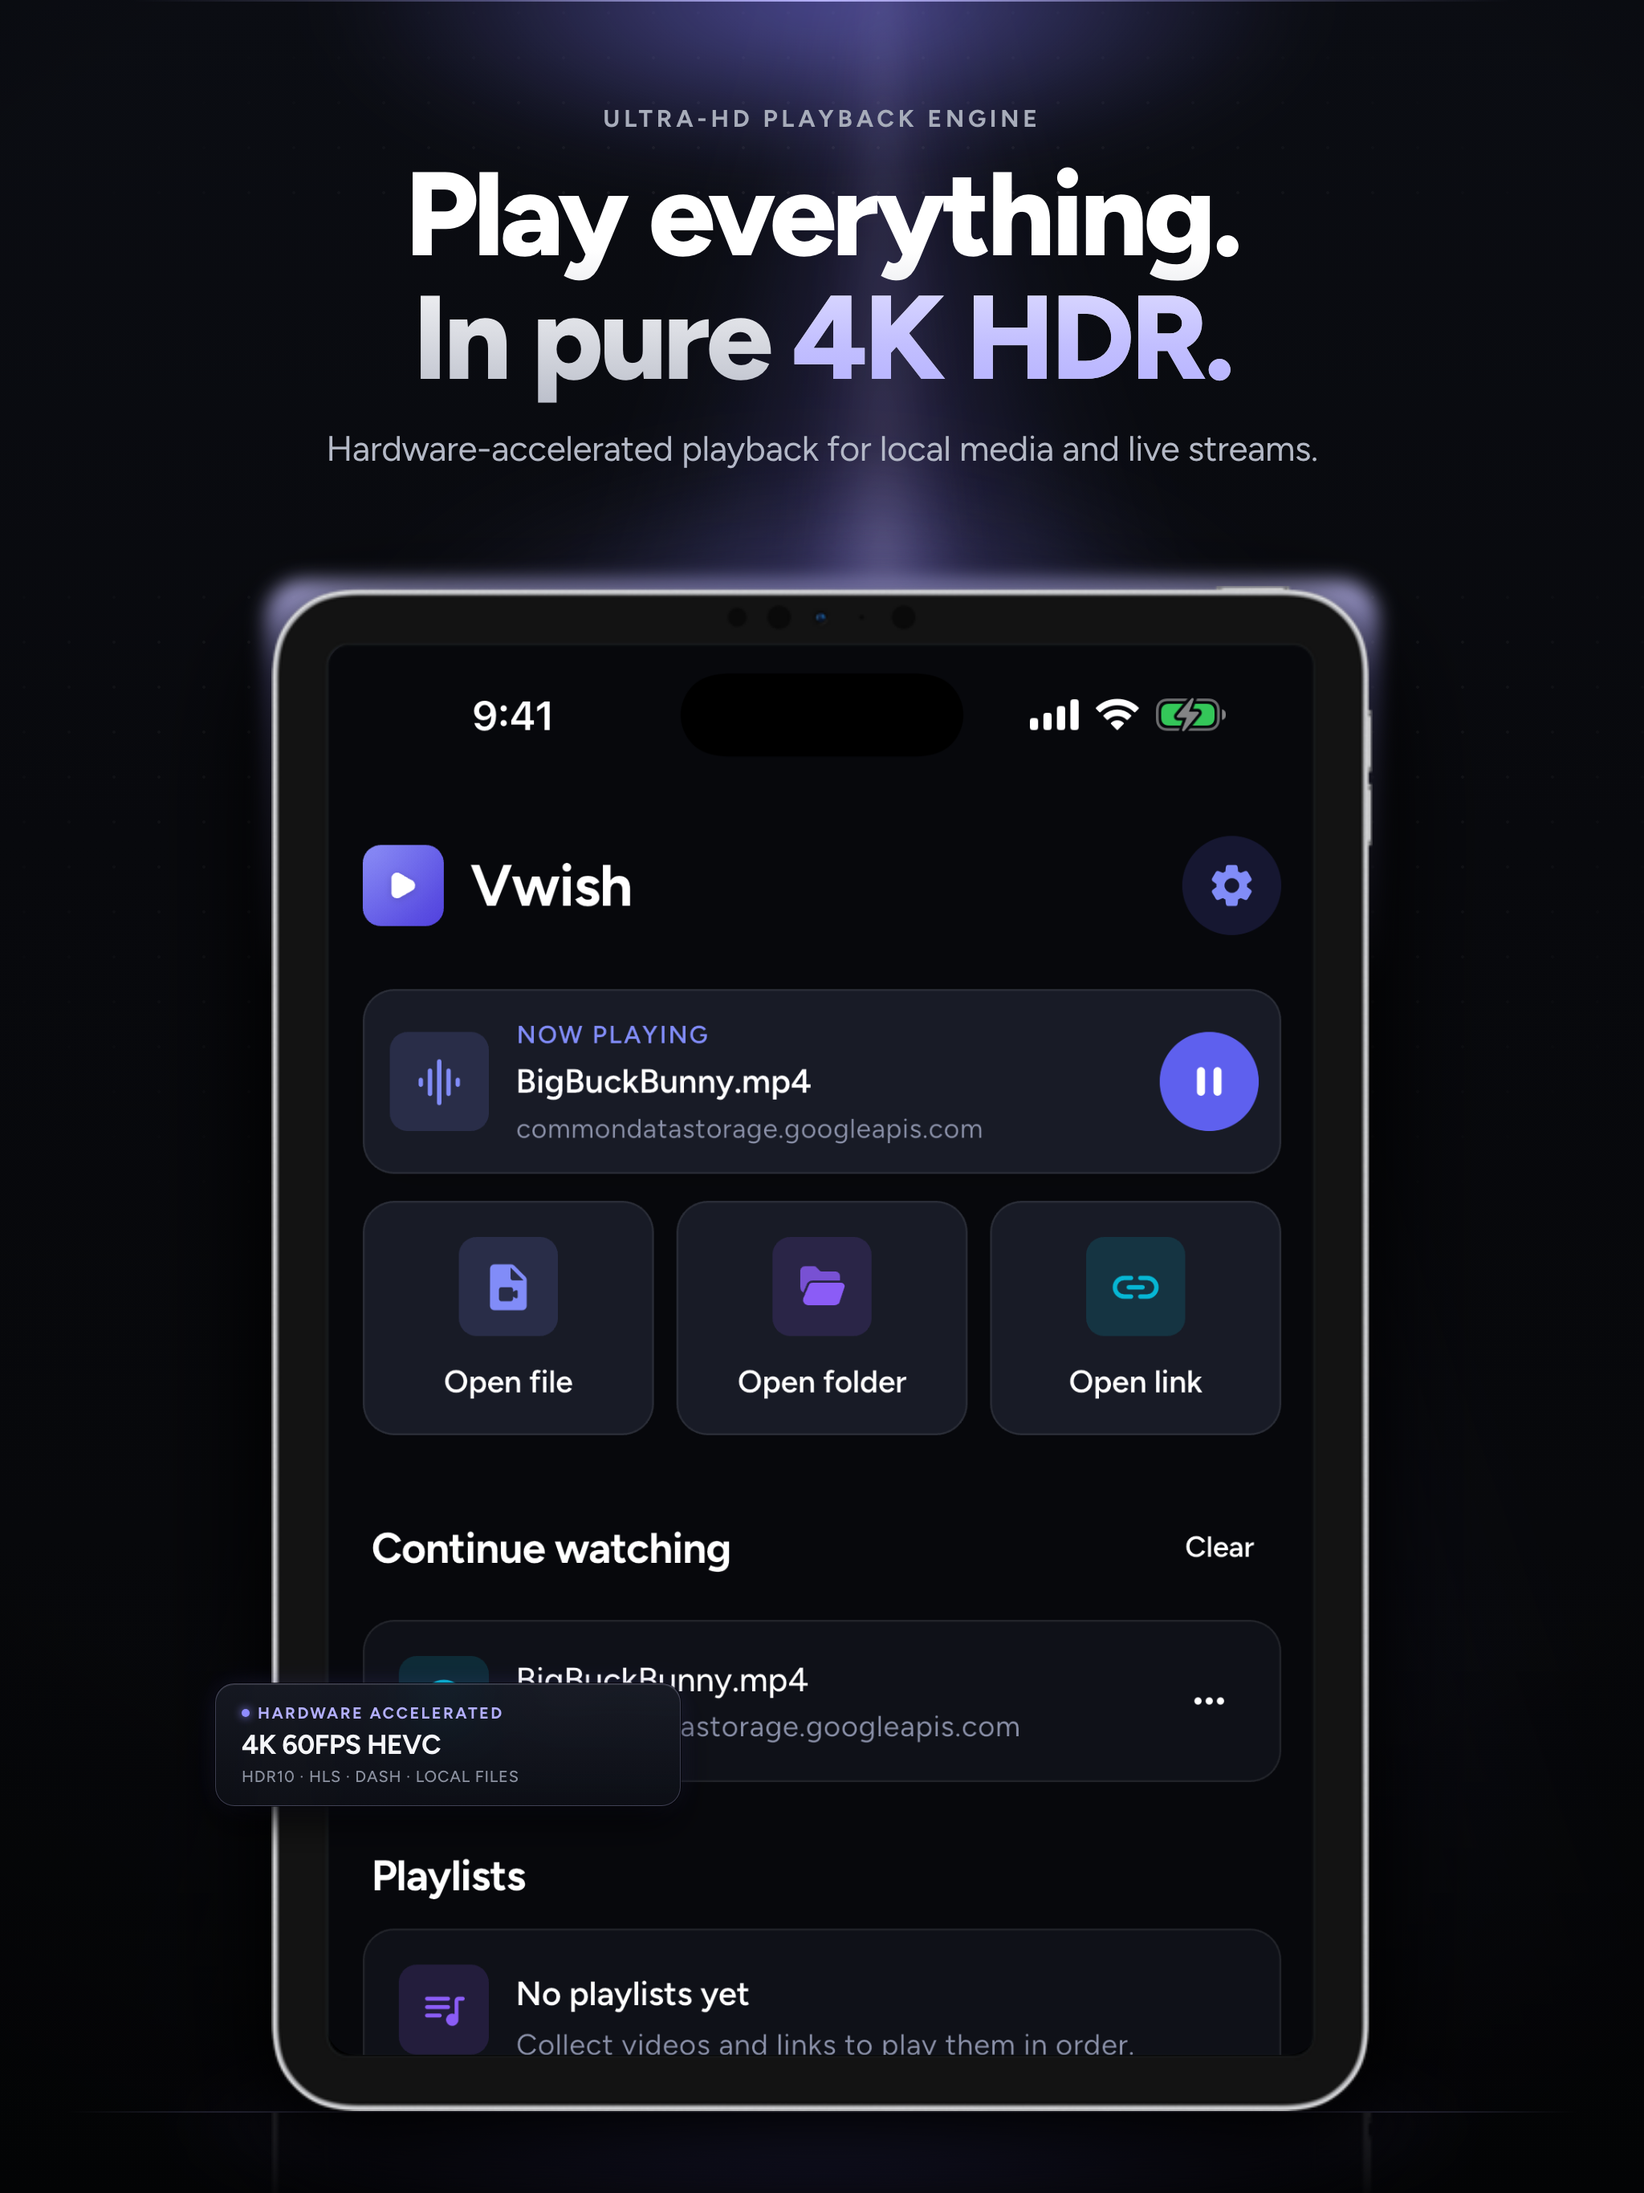
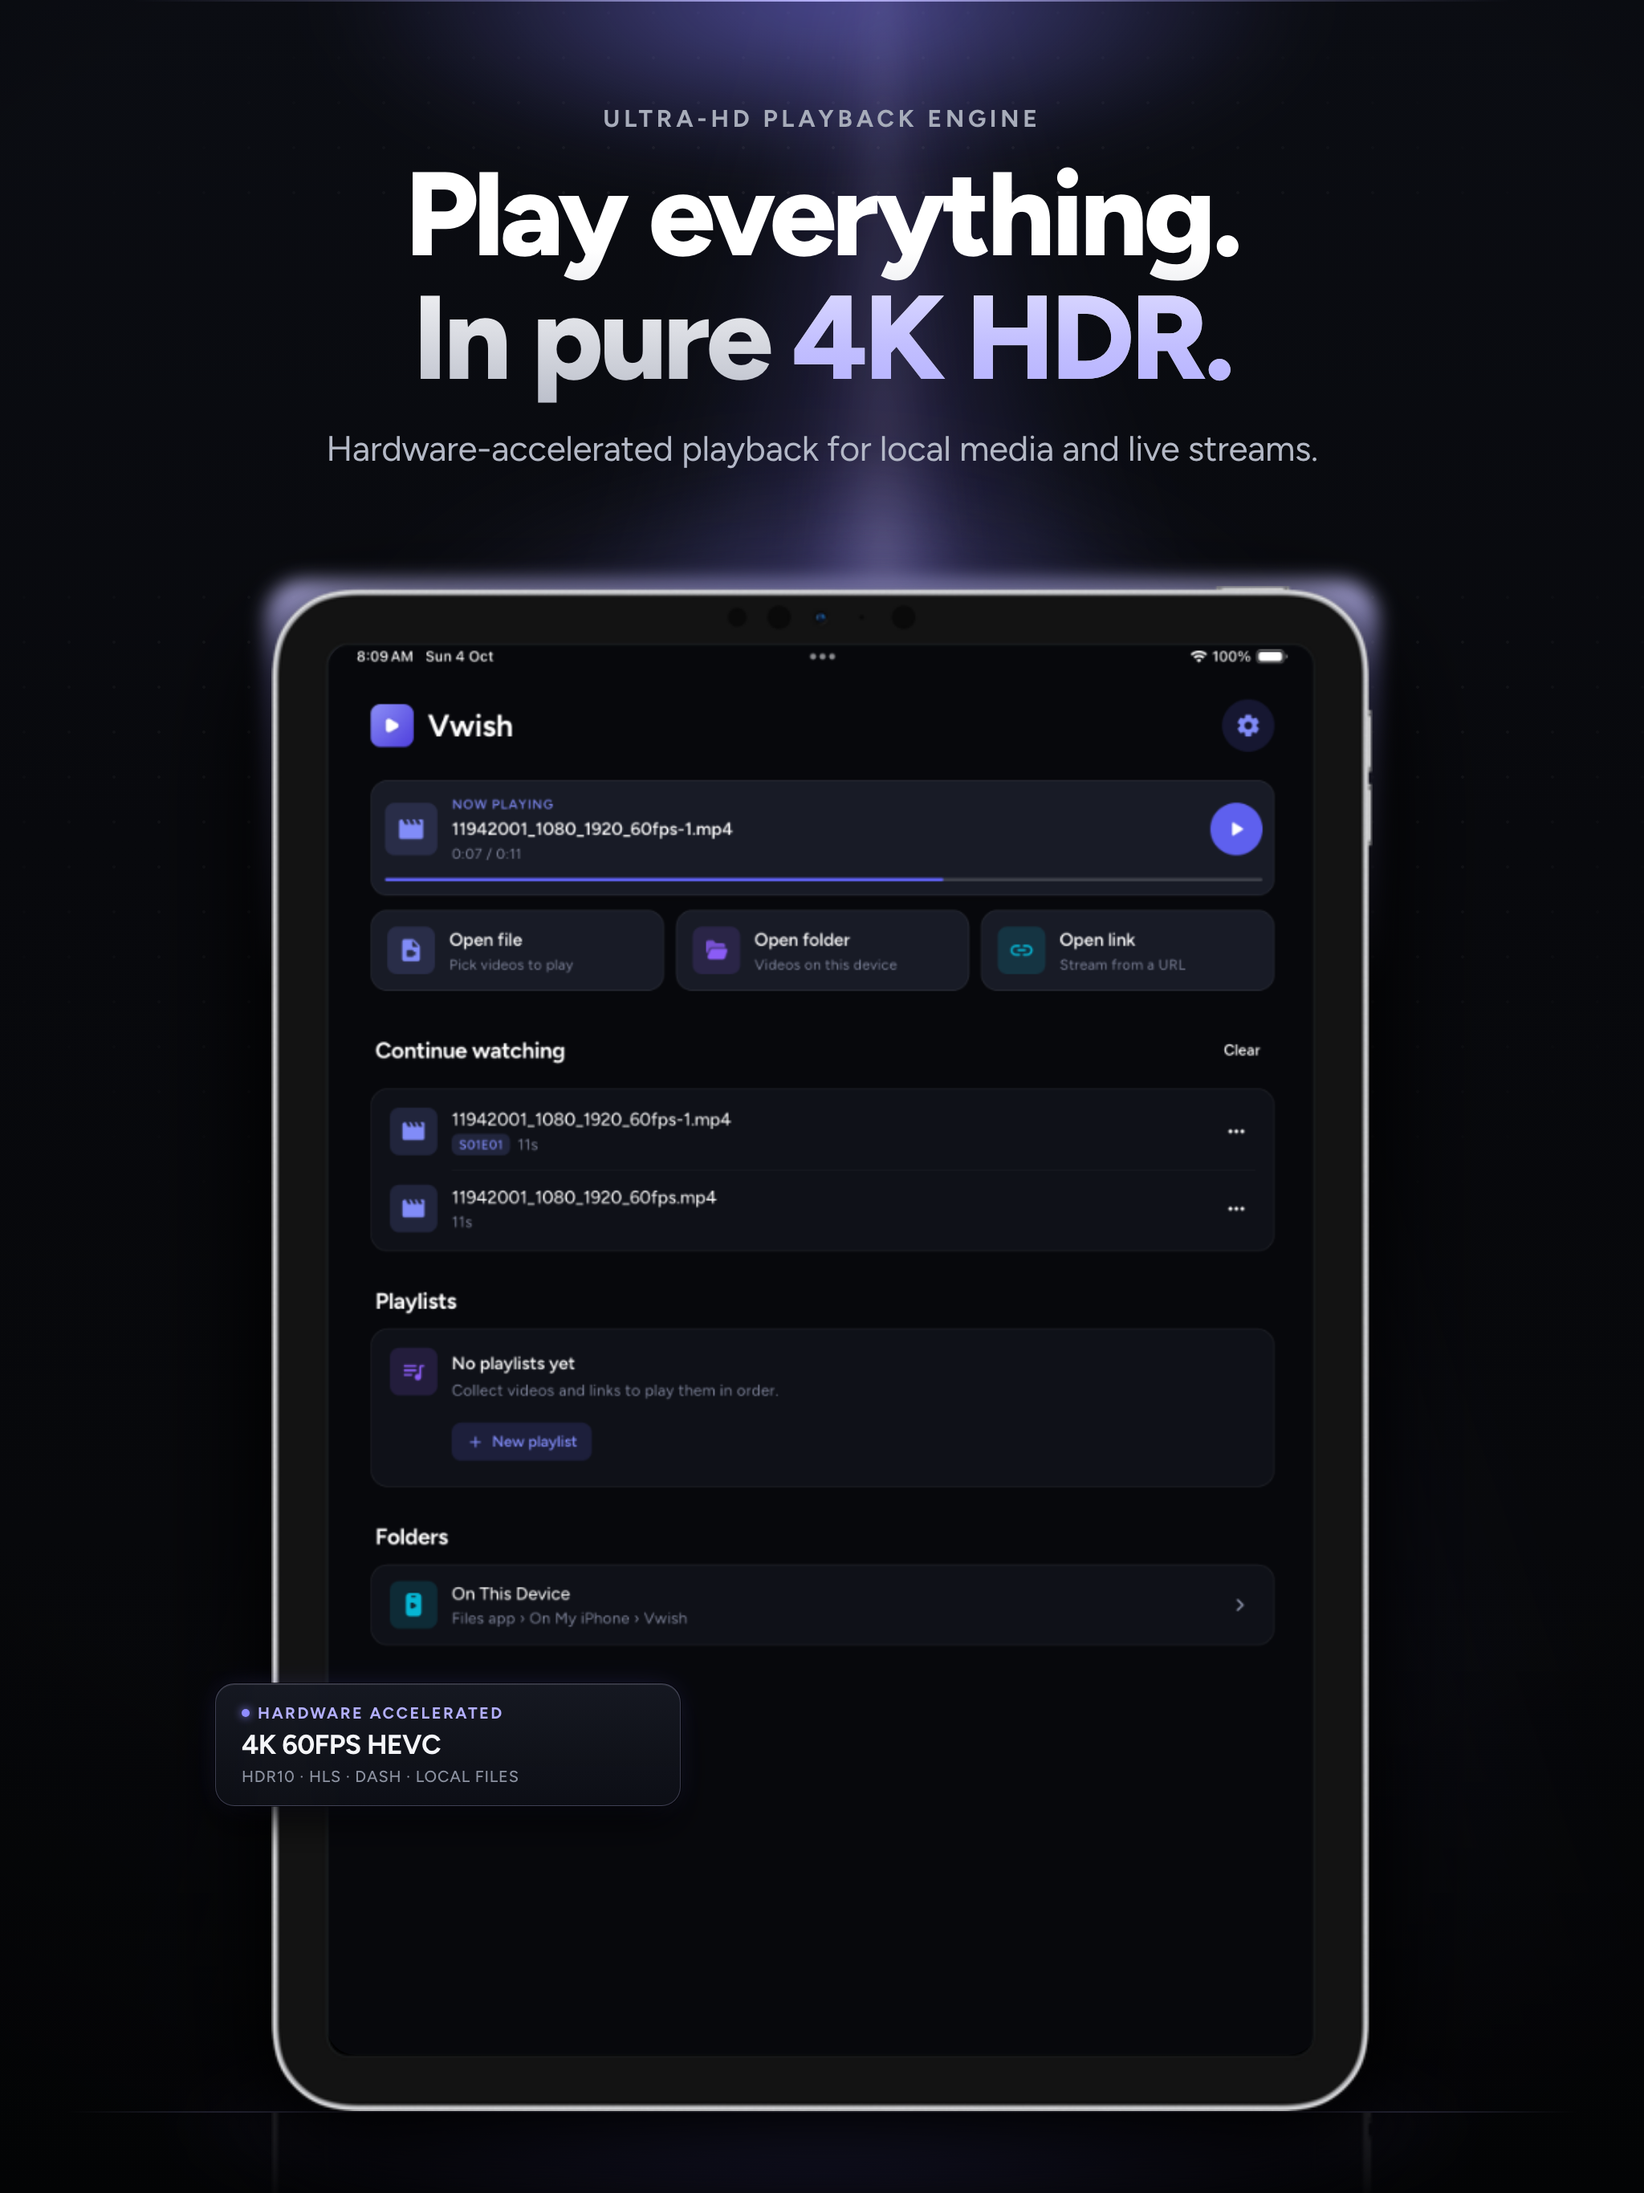
feat(store): update iPad marketing screenshots using native iPad captures

diff --git a/generate_ipad_screenshots.py b/generate_ipad_screenshots.py
@@ -30,7 +30,7 @@ slides = [
         "headline_line1": "Play everything.",
         "headline_line2": "In pure <span class=\"lit\">4K HDR.</span>",
         "subline": "Hardware-accelerated playback for local media and live streams.",
-        "screen_img": to_base64(os.path.join(SRC_DIR, "01_home.png")),
+        "screen_img": to_base64(os.path.join(SRC_DIR, "ipad_01_home.png")),
         "chip_pos": "left",
         "chip_vertical": "bottom: 20%;",
         "chip_status": "HARDWARE ACCELERATED",
@@ -40,16 +40,16 @@ slides = [
     {
         "index": 2,
         "id": "02_equalizer_bass",
-        "eyebrow": "STUDIO AUDIO ENGINE",
-        "headline_line1": "Studio sound.",
-        "headline_line2": "Tuned to <span class=\"lit\">your ears.</span>",
-        "subline": "10-band parametric equalizer, bass boost, and audio normalization.",
-        "screen_img": to_base64(os.path.join(SRC_DIR, "02_equalizer.png")),
+        "eyebrow": "PRO PLAYBACK CONTROLS",
+        "headline_line1": "Smart playback.",
+        "headline_line2": "Tuned to <span class=\"lit\">your rhythm.</span>",
+        "subline": "Custom seek gestures, stream inspection, and comprehensive media tools.",
+        "screen_img": to_base64(os.path.join(SRC_DIR, "ipad_02_settings.png")),
         "chip_pos": "right",
-        "chip_vertical": "top: 20%;",
-        "chip_status": "32-BIT DSP ENGINE",
-        "chip_title": "10-Band Equalizer",
-        "chip_meta": "+6.0 dB BASS BOOST · NORMALIZATION"
+        "chip_vertical": "bottom: 20%;",
+        "chip_status": "PLAYER TOOLKIT",
+        "chip_title": "Custom Seek Controls",
+        "chip_meta": "5S–30S SEEK · STREAM CHECK · MEDIA INFO"
     },
     {
         "index": 3,
@@ -58,12 +58,12 @@ slides = [
         "headline_line1": "Zero buffer.",
         "headline_line2": "Tested in <span class=\"lit\">real time.</span>",
         "subline": "Integrated speed test, ping diagnostics, and 4K stream readiness.",
-        "screen_img": to_base64(os.path.join(SRC_DIR, "03_speed_test.png")),
-        "chip_pos": "left",
+        "screen_img": to_base64(os.path.join(SRC_DIR, "ipad_03_speed_test.png")),
+        "chip_pos": "right",
         "chip_vertical": "bottom: 20%;",
         "chip_status": "NETWORK VERIFIED",
-        "chip_title": "33.1 Mbps Download",
-        "chip_meta": "69 ms PING · 4K STREAM READY"
+        "chip_title": "Stream Speed Test",
+        "chip_meta": "PING · JITTER · BANDWIDTH TEST"
     },
     {
         "index": 4,
@@ -71,13 +71,13 @@ slides = [
         "eyebrow": "PRO MASTERING CONTROLS",
         "headline_line1": "Every frame,",
         "headline_line2": "color <span class=\"lit\">graded live.</span>",
-        "subline": "Live brightness, contrast, saturation, gamma, and A-B loop repeat.",
-        "screen_img": to_base64(os.path.join(SRC_DIR, "04_color_grade.png")),
-        "chip_pos": "right",
+        "subline": "Live brightness, contrast, saturation, gamma, and hue adjustments.",
+        "screen_img": to_base64(os.path.join(SRC_DIR, "ipad_04_color_grade.png")),
+        "chip_pos": "left",
         "chip_vertical": "bottom: 20%;",
         "chip_status": "FRAME-BY-FRAME DSP",
         "chip_title": "Hardware Color Grade",
-        "chip_meta": "GAMMA · CONTRAST · A-B REPEAT"
+        "chip_meta": "GAMMA · CONTRAST · HUE · SATURATION"
     },
     {
         "index": 5,
@@ -85,8 +85,8 @@ slides = [
         "eyebrow": "LOCAL STORAGE & PRIVACY",
         "headline_line1": "Your media.",
         "headline_line2": "Zero <span class=\"lit\">tracking.</span>",
-        "subline": "Complete on-device privacy, local file manager, and bandwidth tools.",
-        "screen_img": to_base64(os.path.join(SRC_DIR, "05_data_usage.png")),
+        "subline": "Complete on-device privacy, local file sandbox, and cache management.",
+        "screen_img": to_base64(os.path.join(SRC_DIR, "ipad_05_storage.png")),
         "chip_pos": "right",
         "chip_vertical": "bottom: 20%;",
         "chip_status": "ON-DEVICE PRIVACY",

diff --git a/publishing/README.md b/publishing/README.md
@@ -49,11 +49,16 @@ publishing/
 │       └── 05_privacy_storage.png
 │
 ├── source_assets/                    # Native simulator captures and frames
-│   ├── 01_home.png                   # Home library screen with Now Playing
-│   ├── 02_equalizer.png              # 10-band EQ curve with Bass Boost
-│   ├── 03_speed_test.png             # Network speedometer test results
-│   ├── 04_color_grade.png            # Real-time color adjustments modal
-│   ├── 05_data_usage.png             # Data usage & bandwidth calculator
+│   ├── 01_home.png                   # iPhone: Home library screen
+│   ├── 02_equalizer.png              # iPhone: 10-band EQ curve
+│   ├── 03_speed_test.png             # iPhone: Network speed test
+│   ├── 04_color_grade.png            # iPhone: Color adjustments
+│   ├── 05_data_usage.png             # iPhone: Data usage calculator
+│   ├── ipad_01_home.png              # iPad: Home screen with Now Playing
+│   ├── ipad_02_settings.png          # iPad: Settings & Seek Controls
+│   ├── ipad_03_speed_test.png        # iPad: 4K Network Benchmark
+│   ├── ipad_04_color_grade.png       # iPad: Real-time Color Adjustments
+│   ├── ipad_05_storage.png           # iPad: Local Sandbox & Storage
 │   ├── mockup.png                    # High-res iPhone frame overlay
 │   └── mockup-ipad.png               # High-res iPad frame overlay
 │
